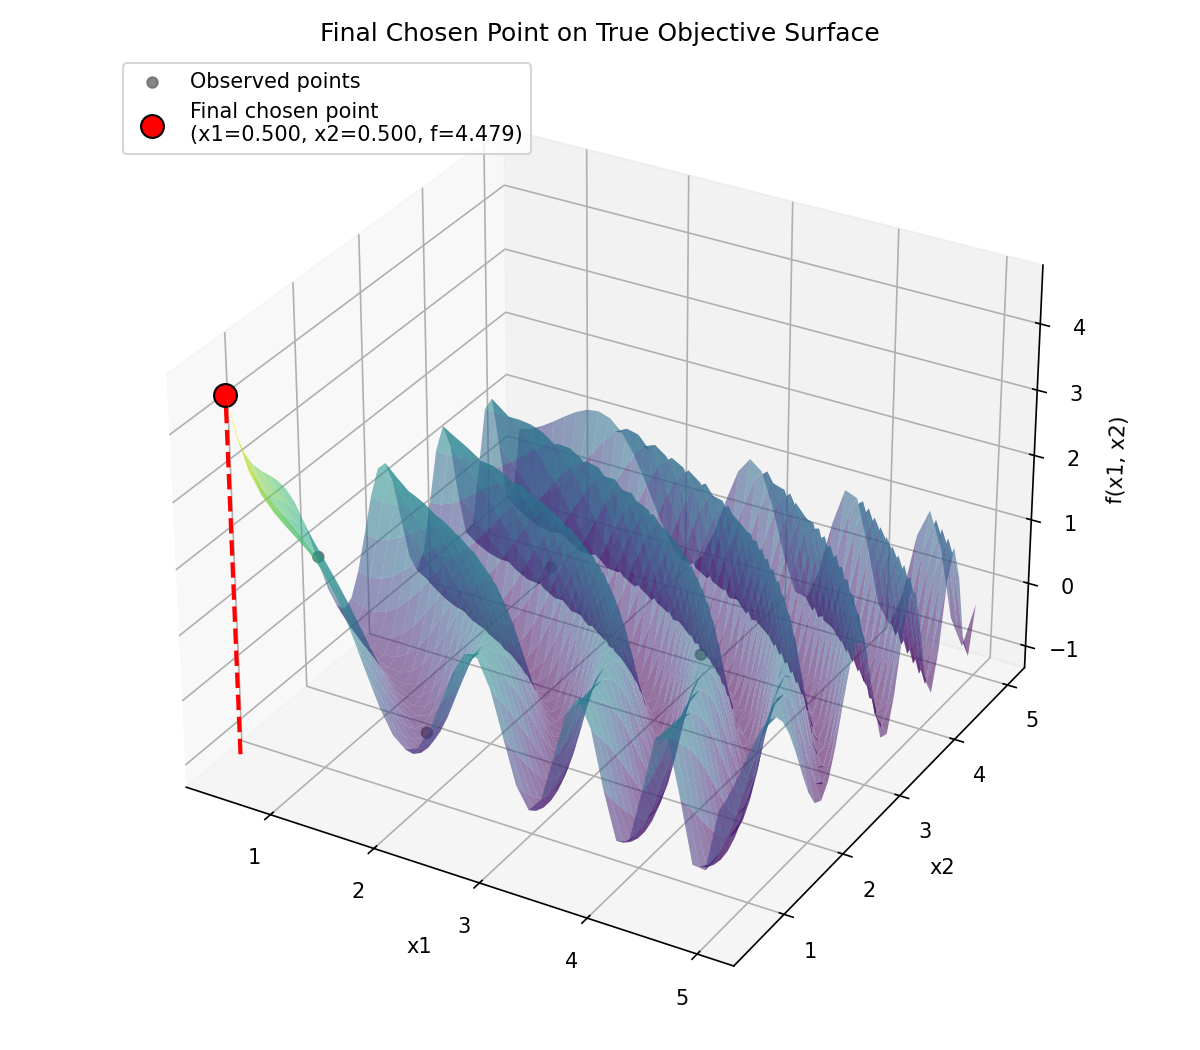
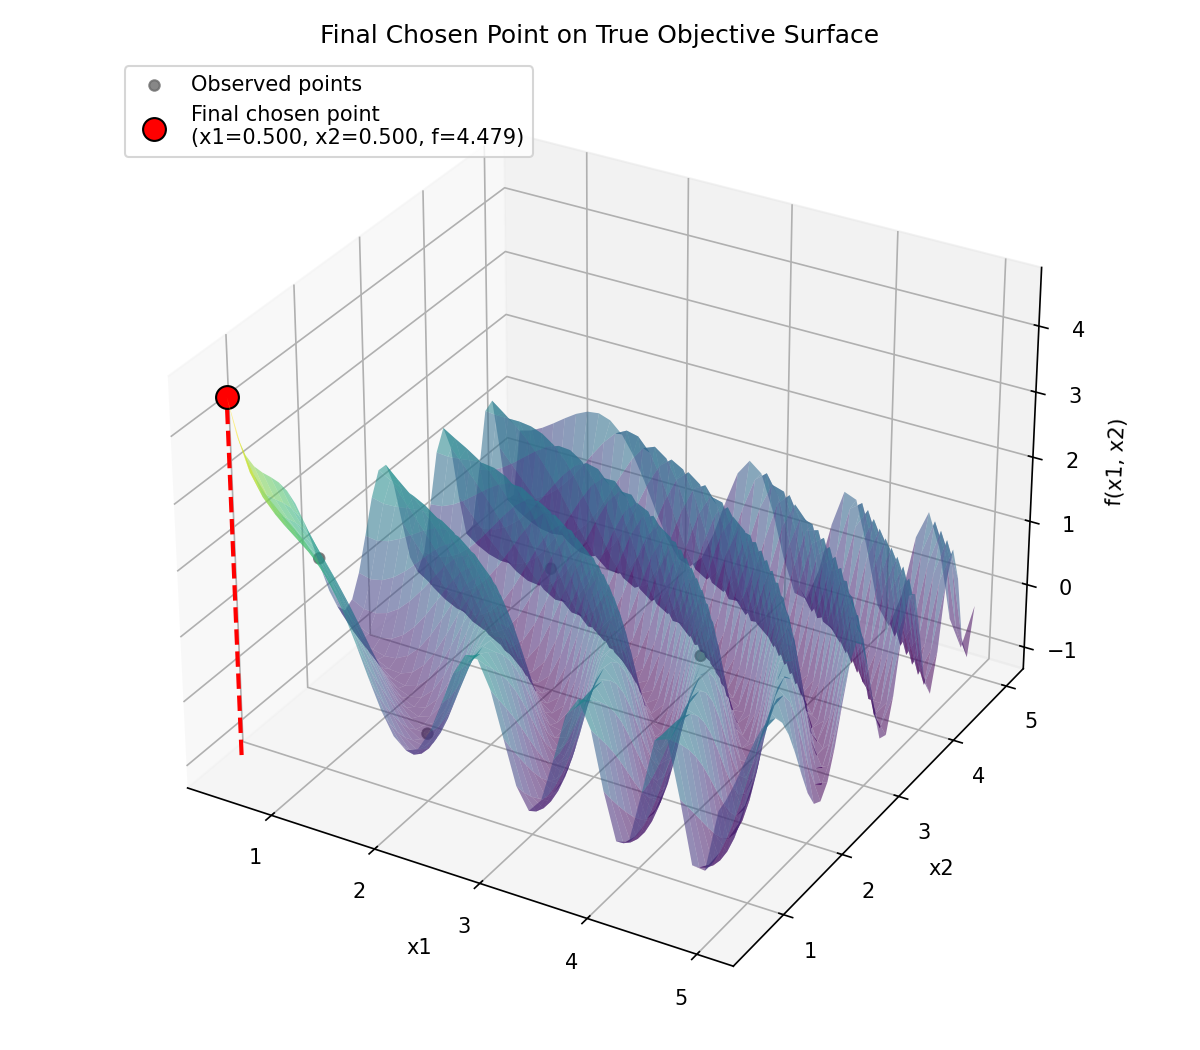
Search function started

diff --git a/multidimensionalbo.py b/multidimensionalbo.py
@@ -1,5 +1,6 @@
 import numpy as np
 import scipy as sp
+import math
 
 # ==============================================================
 #             Kernel function (squared exponential)
@@ -196,3 +197,24 @@ def combined_kernel_product(xin1,
     return k_se * k_linear
 
 # Great source of Gaussian Process explanation: https://distill.pub/2019/visual-exploration-gaussian-processes/
+
+# Marcus contour search function replica using BO
+
+def bo_2d_contour(chosen_func, setup_min, setup_max, hold_min, hold_max, c2q_threshold=math.inf, n_samples=40):
+
+
+    # Verify the max and min points of the setup and hold
+    if setup_min > setup_max:
+        setup_min, setup_max = setup_max, setup_min
+
+    if hold_min > hold_max:
+        hold_min, hold_max = hold_max, hold_min
+
+    setup_range = np.linspace(setup_min, setup_max, n_samples)
+    hold_range = np.linspace(hold_min, hold_max, n_samples)
+
+    _cache = {}
+
+
+
+    return None
